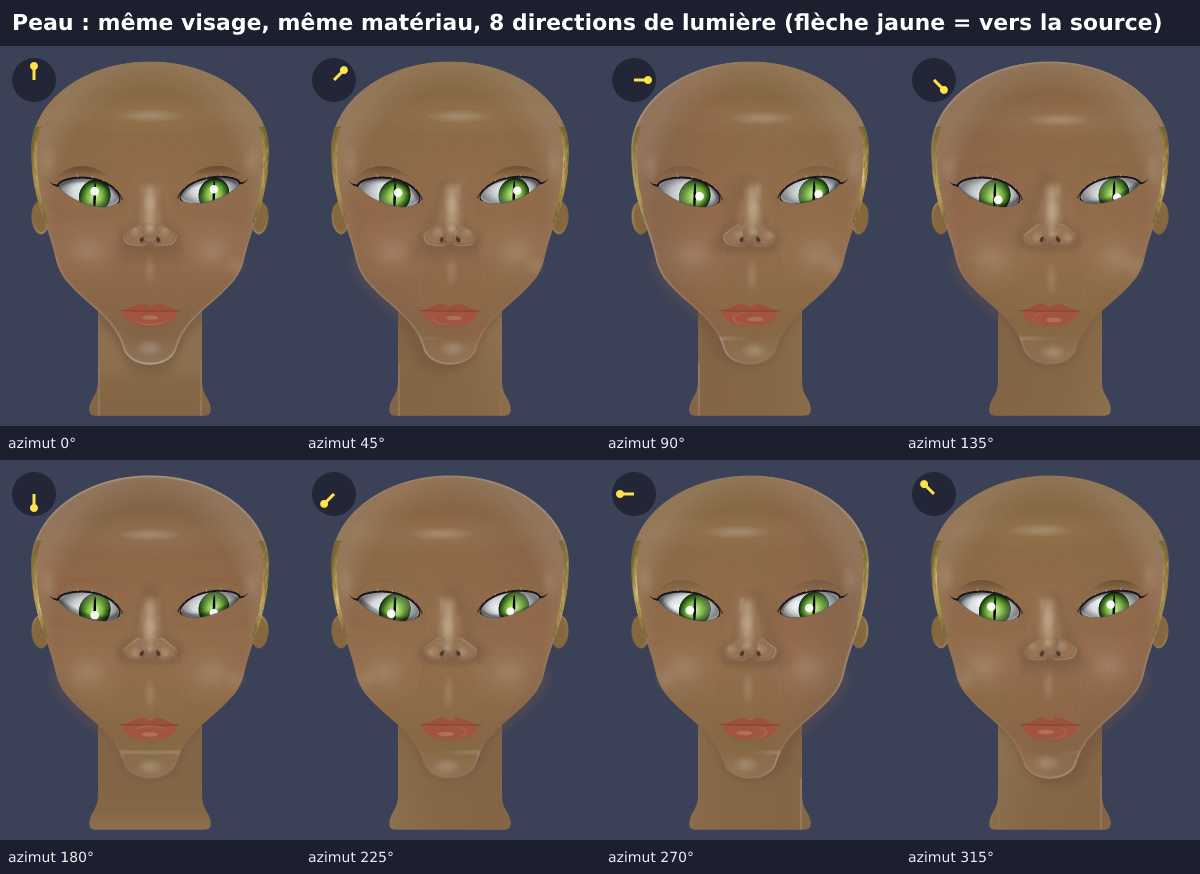
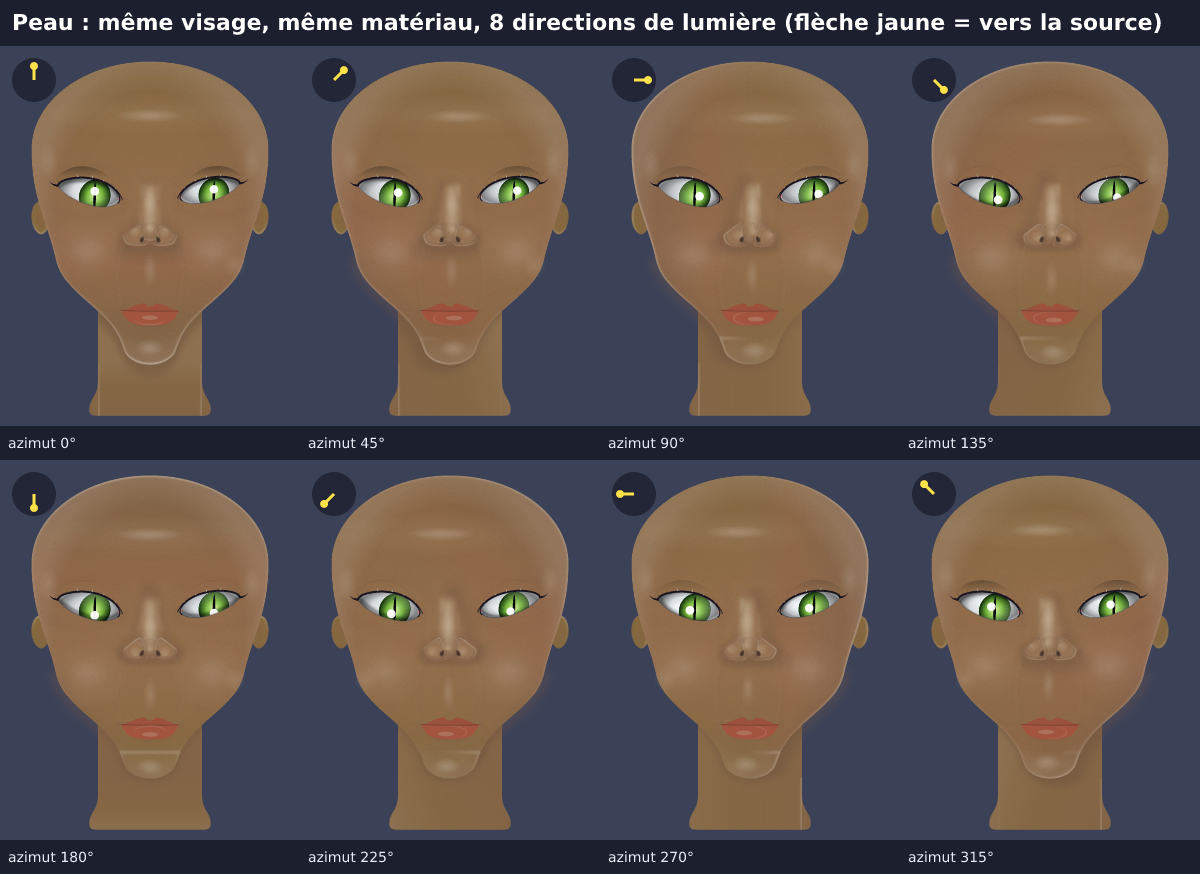
fix(skin): tempes/cou atténués

diff --git a/src/skin/shading.ts b/src/skin/shading.ts
@@ -67,7 +67,9 @@ export function skinShading(mat: SkinMaterial, L: LightVector, regions: SkinRegi
     // et le réglage `reflection.size` de l'apparence l'élargissent encore. Jamais étroit comme un métal poli (plancher 0,3).
     const size = Math.min(1.1, Math.max(0.3, (0.18 + 0.5 * rough) * (0.6 + 0.8 * sp.broadness) * (0.8 + 0.6 * soft) * (0.6 + 0.8 * refl.size)));
     // Intensité : décroît avec la rugosité (reflet plus diffus et moins brillant), croît avec la graisse de la zone T.
-    const alpha = clamp01(I * sp.strength * (1 - 0.7 * rough) * oil * 0.34 * (2 * refl.intensity));
+    // Les tempes et le cou sont des surfaces qui fuient vers le contour : leur reflet est atténué de 40 % (sinon un liseré doré borde la tête).
+    const edge = id === 'temples' || id === 'neck' ? 0.6 : 1;
+    const alpha = clamp01(I * sp.strength * (1 - 0.7 * rough) * oil * 0.34 * (2 * refl.intensity) * edge);
     for (const r of regions[id]) {
       // Le reflet se décale vers le vecteur médian (même formule physique que le matériau générique) : il suit la lumière.
       spots.push({ region: id, e: { cx: r.cx + H.x * r.rx * 0.5, cy: r.cy + H.y * r.ry * 0.5, rx: r.rx * size, ry: r.ry * size }, alpha, soft: cel ? 0.04 : clamp01(0.55 + 0.4 * rough + 0.15 * soft), color: specColor });

diff --git a/src/face/regions.ts b/src/face/regions.ts
@@ -31,7 +31,7 @@ export function skinRegions(lm: FaceLandmarks, nose: NoseGeometry): SkinRegions 
   const inner = (nose.widthPx / 2) * 1.1;
   const cheek = (s: -1 | 1): Ellipse => ({ cx: s * (inner + (hw(cheekY) - inner) * 0.5), cy: cheekY, rx: Math.max(0.01 * W, (hw(cheekY) - inner) * 0.42), ry: 0.075 * H });
   const templeY = lm.eyeY - 0.09 * H;
-  const temple = (s: -1 | 1): Ellipse => ({ cx: s * hw(templeY) * 0.86, cy: templeY, rx: 0.06 * W, ry: 0.09 * H });
+  const temple = (s: -1 | 1): Ellipse => ({ cx: s * hw(templeY) * 0.74, cy: templeY, rx: 0.075 * W, ry: 0.075 * H });
   const chin: Ellipse = { cx: 0, cy: (lm.chin.sulcusY + lm.chinY) / 2, rx: lm.chin.half * 0.9, ry: Math.max(0.02 * H, lm.chin.heightPx / 2) };
   const lipY = (lm.noseBaseY + lm.lips.topY) / 2;
   const upperLip: Ellipse = { cx: 0, cy: lipY, rx: 0.05 * W, ry: Math.max(0.008 * H, (lm.lips.topY - lm.noseBaseY) / 2) };
